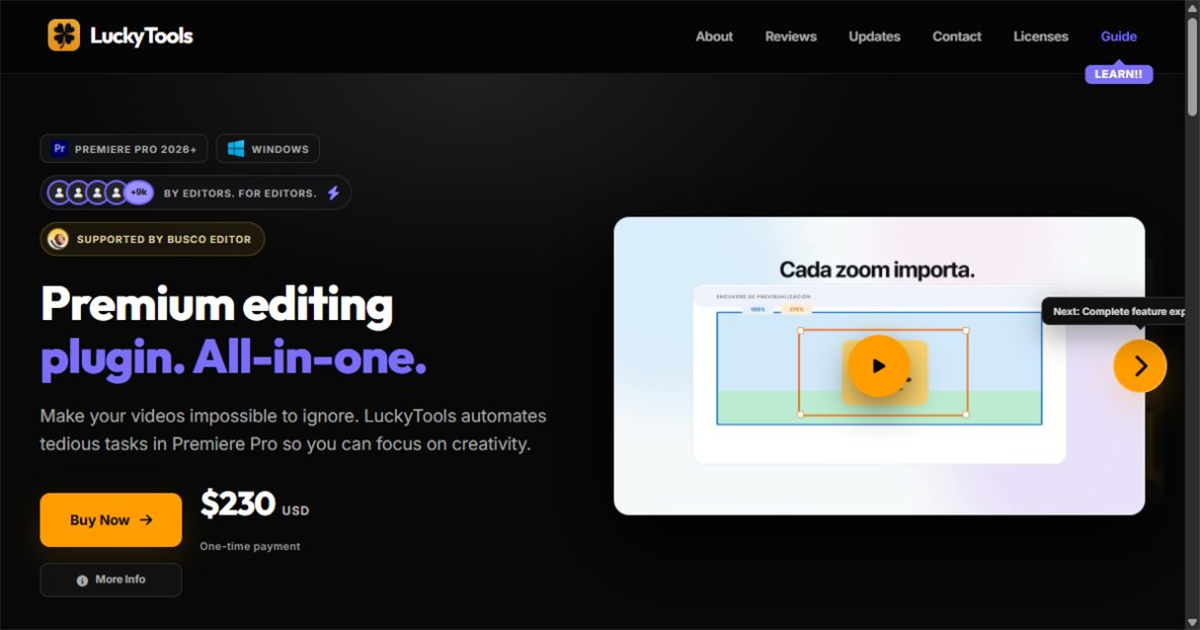
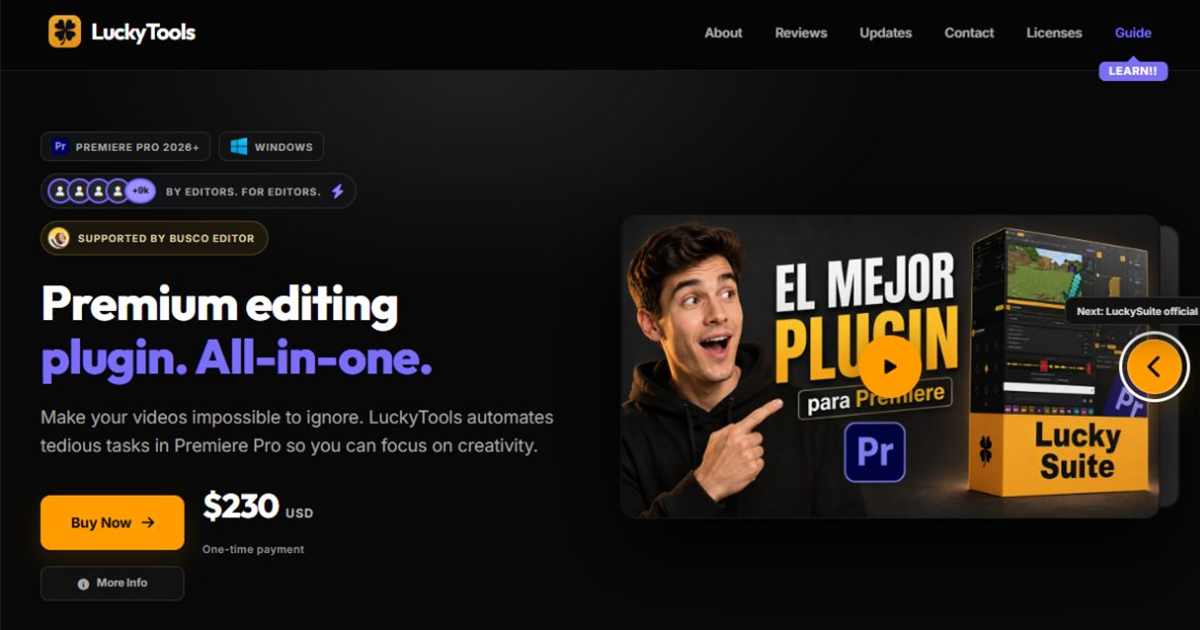
Update social preview with feature video

diff --git a/index.html b/index.html
@@ -14,8 +14,8 @@
     <meta property="og:title" content="LuckyTools | Premium Premiere Pro Plugin">
     <meta property="og:description" content="The all-in-one Premiere Pro plugin for faster, smarter editing. Automate tedious tasks and focus on your creativity.">
     <meta property="og:url" content="https://getluckytools.com/">
-    <meta property="og:image" content="https://getluckytools.com/assets/images/luckytools-social-preview.png?v=1">
-    <meta property="og:image:secure_url" content="https://getluckytools.com/assets/images/luckytools-social-preview.png?v=1">
+    <meta property="og:image" content="https://getluckytools.com/assets/images/luckytools-social-preview.png?v=2">
+    <meta property="og:image:secure_url" content="https://getluckytools.com/assets/images/luckytools-social-preview.png?v=2">
     <meta property="og:image:type" content="image/png">
     <meta property="og:image:width" content="1200">
     <meta property="og:image:height" content="630">
@@ -25,7 +25,7 @@
     <meta name="twitter:card" content="summary_large_image">
     <meta name="twitter:title" content="LuckyTools | Premium Premiere Pro Plugin">
     <meta name="twitter:description" content="The all-in-one Premiere Pro plugin for faster, smarter editing. Automate tedious tasks and focus on your creativity.">
-    <meta name="twitter:image" content="https://getluckytools.com/assets/images/luckytools-social-preview.png?v=1">
+    <meta name="twitter:image" content="https://getluckytools.com/assets/images/luckytools-social-preview.png?v=2">
     <meta name="twitter:image:alt" content="LuckyTools premium all-in-one editing plugin for Adobe Premiere Pro">
     <meta name="theme-color" content="#ff9d00">
 
